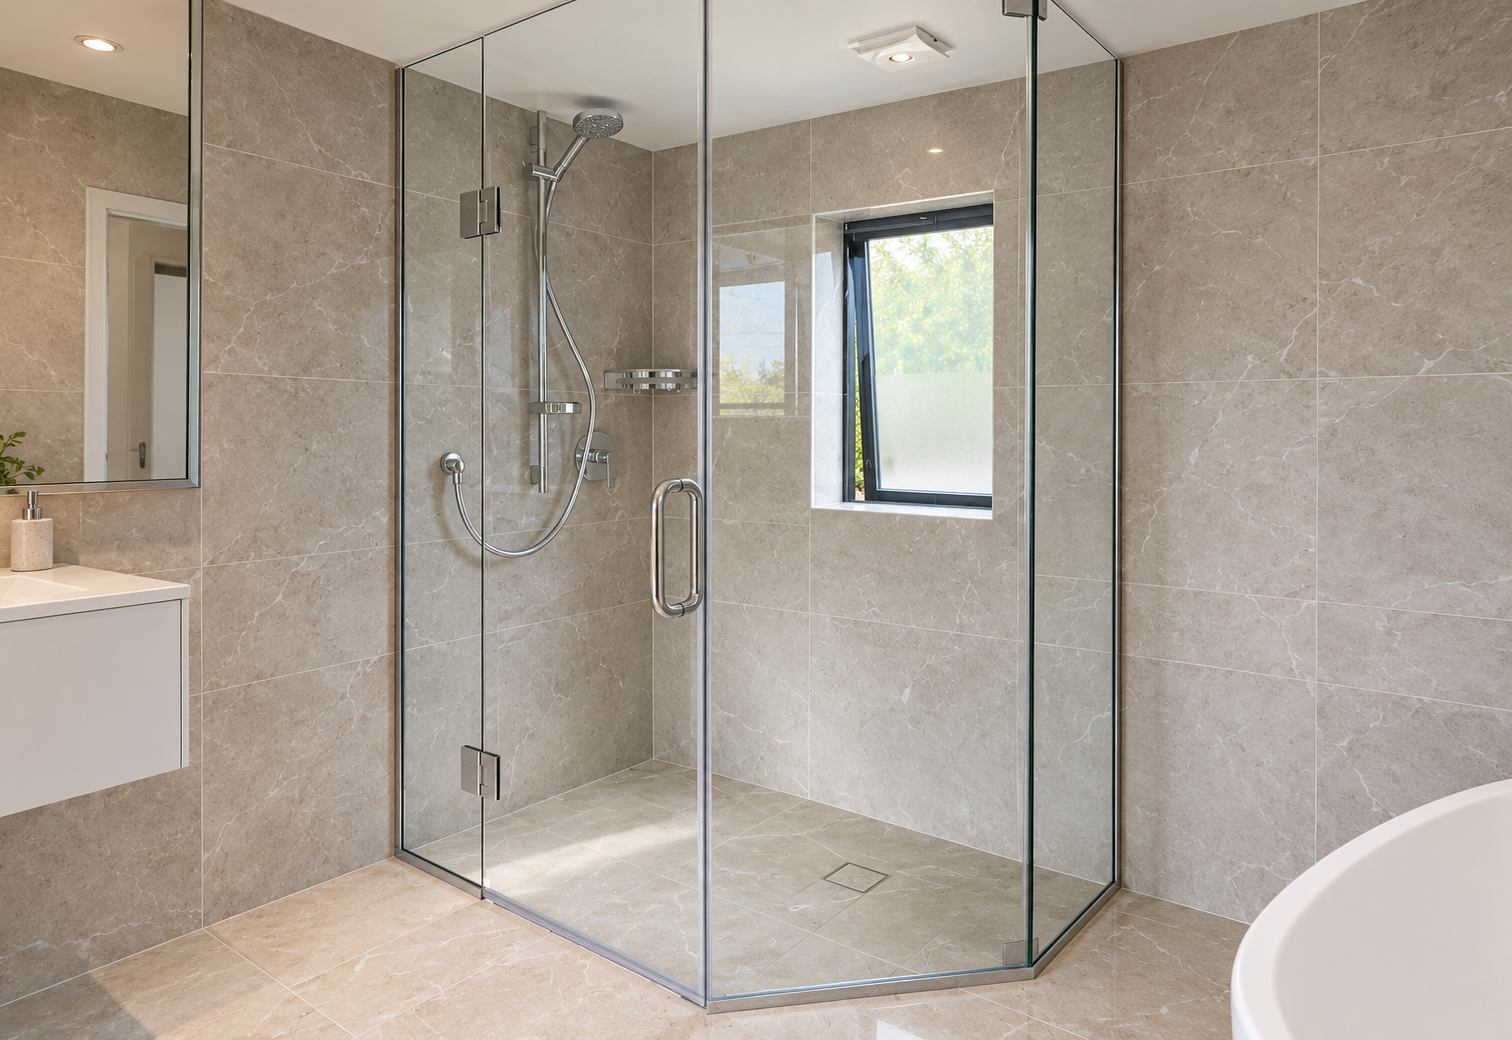
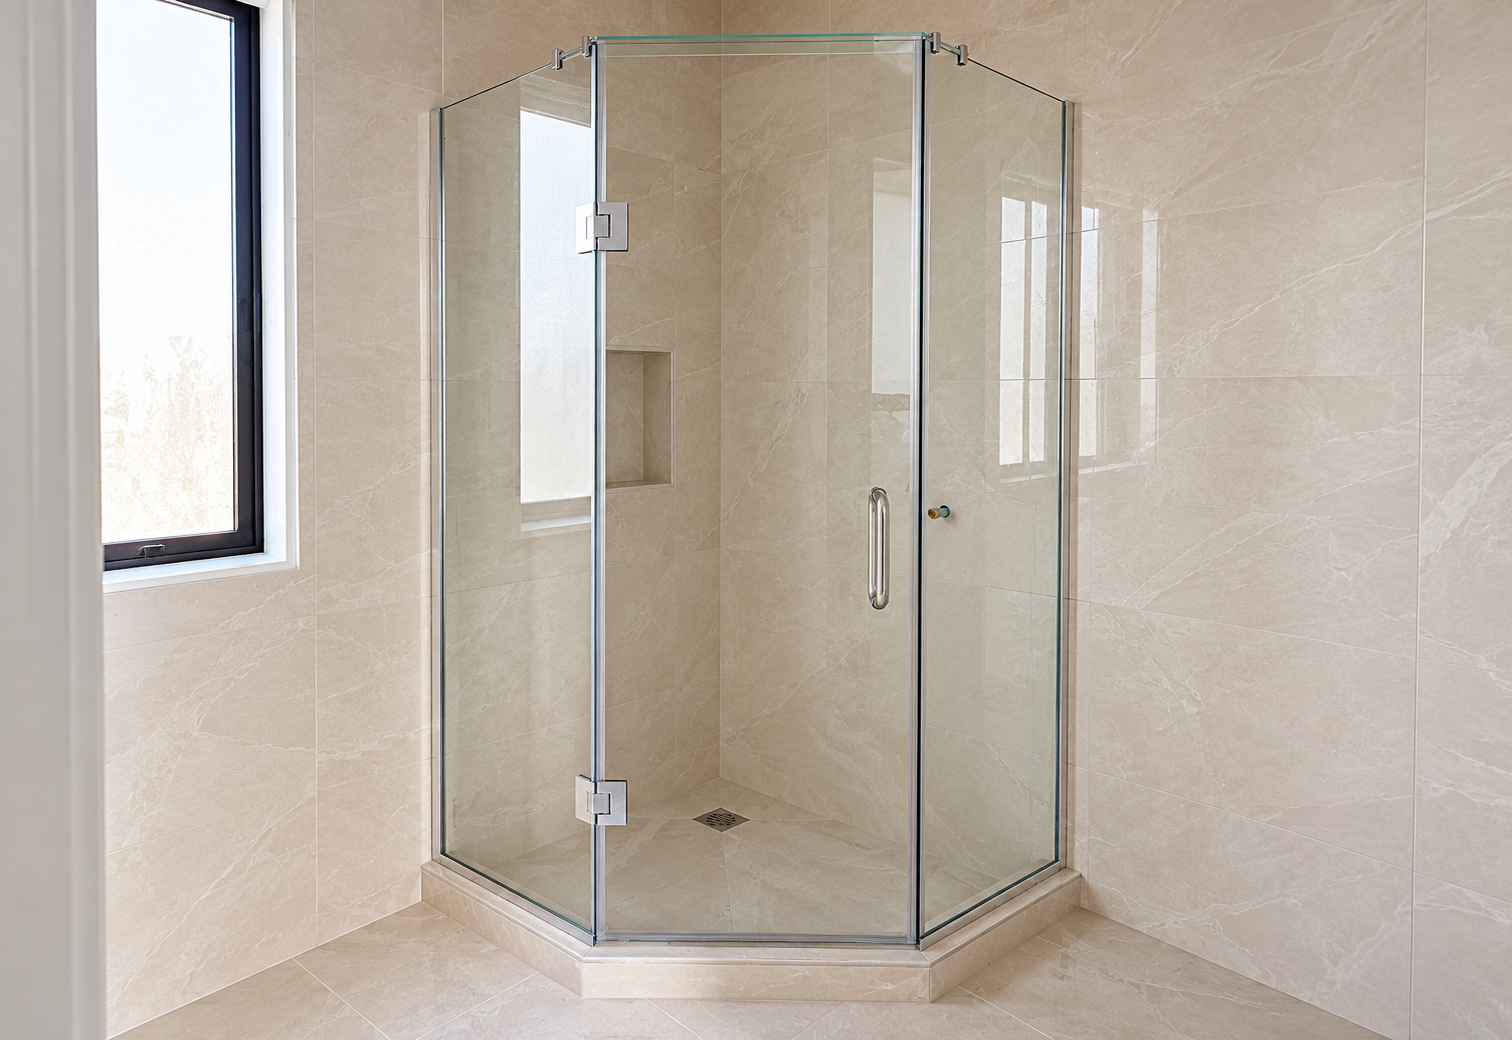
Update shower box images

diff --git a/src/components/FramelessShowerSelector.tsx b/src/components/FramelessShowerSelector.tsx
@@ -59,7 +59,9 @@ const rectangularExamples: Record<string, string> = {
 
 const rectangularAdditionalExamples: Record<string, string[]> = {
   Silver: ["/images/shower-boxes/frameless-rectangular-showerbox-silver-01.png"],
-  Black: ["/images/shower-boxes/frameless-rectangular-showerbox-black.png"],
+  Black: [
+    "/images/shower-boxes/frameless-rectangular-showerbox-black.png",
+  ],
   "Brushed Nickel": ["/images/shower-boxes/frameless-rectangular-showerbox-brushed-nickel.png"],
   Gunmetal: [
     "/images/shower-boxes/frameless-rectangular-showerbox-gunmetal.png",
@@ -197,19 +199,36 @@ function getShapeImages(shape: ShowerBoxShape, colour: string, variant: "framele
   }
 
   if (shape === "Diamond" && colour === "Silver") {
-    return [primaryImage, "/images/shower-marble-bathroom.jpg", "/images/shower-boxes/frameless-diamond-corner-showerbox-silver-03.png"];
+    return [
+      primaryImage,
+      "/images/shower-marble-bathroom.jpg",
+      "/images/shower-boxes/frameless-diamond-corner-showerbox-silver-02.png",
+      "/images/shower-boxes/frameless-diamond-corner-showerbox-silver-03.png",
+    ];
   }
   if (shape === "Diamond" && colour === "Black") {
-    return [primaryImage, "/images/shower-boxes/frameless-diamond-corner-showerbox-black-01.jpg"];
+    return [
+      primaryImage, 
+      "/images/shower-boxes/frameless-diamond-corner-showerbox-black-01.jpg",
+      "/images/shower-boxes/frameless-diamond-corner-showerbox-black-02.png"
+    ];
   }
   if (shape === "Diamond" && colour === "Gold") {
-    return [primaryImage, "/images/shower-boxes/frameless-diamond-corner-showerbox-gold-03.png"];
+    return [
+      primaryImage,
+      "/images/shower-boxes/frameless-diamond-corner-showerbox-gold-03.png",
+      "/images/shower-boxes/frameless-diamond-corner-showerbox-gold-04.png",
+    ];
   }
   if (shape === "Diamond" && colour === "Bronze") {
     return [primaryImage, "/images/shower-boxes/frameless-diamond-corner-showerbox-bronze-01.png"];
   }
   if (shape === "Diamond" && colour === "Gunmetal") {
-    return [primaryImage, "/images/shower-boxes/frameless-diamond-corner-showerbox-gunmetal.png"];
+    return [
+      primaryImage, 
+      "/images/shower-boxes/frameless-diamond-corner-showerbox-gunmetal-01.png",
+      "/images/shower-boxes/frameless-diamond-corner-showerbox-gunmetal-02.png",
+    ];
   }
   if (shape === "Rectangular" && rectangularAdditionalExamples[colour]) {
     return [primaryImage, ...rectangularAdditionalExamples[colour]];
